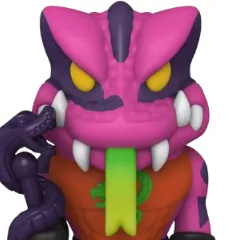
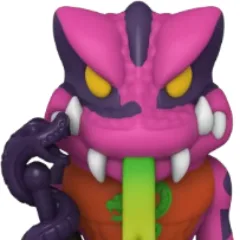
Photos: TUNG LASHOR (funko-cl-s-017)

diff --git a/photos.js b/photos.js
@@ -1931,9 +1931,15 @@ window.MOTU_PHOTOS = {
  "funko-cl-s-017": {
   "images": [
    "img/characters/funko-cl-s-017-1.webp?v=6gjmrv",
-   "img/characters/funko-cl-s-017-cb.webp?v=6gjmrv"
+   "img/characters/funko-cl-s-017-cb.webp?v=6gquo1",
+   "img/characters/funko-cl-s-017-2.webp?v=6gquo1",
+   "img/characters/funko-cl-s-017-3.webp?v=6gquo1"
   ],
   "preview": "img/characters/funko-cl-s-017-shelf.png?v=6gjmrv",
-  "thumb": "img/characters/funko-cl-s-017-thumb.webp?v=6gjmrv"
+  "thumb": "img/characters/funko-cl-s-017-thumb.webp?v=6gquo1",
+  "captions": {
+   "2": "Metallic (Chase)",
+   "cb": "Standard"
+  }
  }
 };
